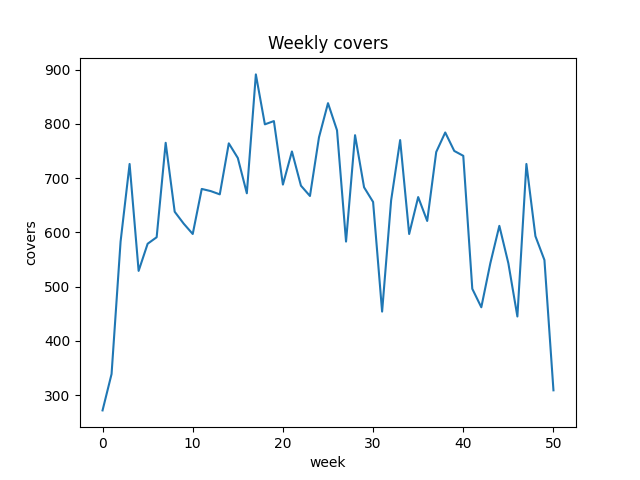
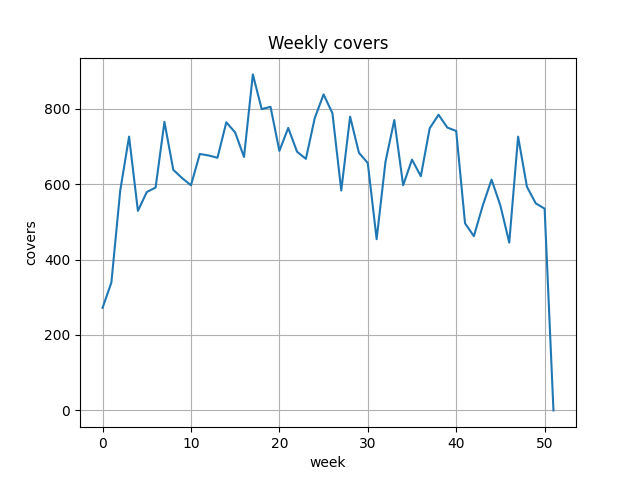
adding graphs and finetuning model

diff --git a/restaurant_analytics/ml.py b/restaurant_analytics/ml.py
@@ -2,15 +2,16 @@ import pandas as pd
 import torch
 import numpy as np
 import os
-from tqdm import tqdm
+# from tqdm import tqdm
 import torch
 import torch.optim as optim
 import torch.nn as nn
-import torch.nn.functional as F
+# import torch.nn.functional as F
 from torch.utils.data import DataLoader, TensorDataset
-from torchvision import transforms
-from torchvision.utils import save_image
+# from torchvision import transforms
+# from torchvision.utils import save_image
 import matplotlib.pyplot as plt
+from datetime import datetime
 
 
 
@@ -23,6 +24,8 @@ pred_file_name = cd + "\\predictions.xlsx"
 pred_file = os.path.join(cd, pred_file_name)
 
 device = torch.device('cuda' if torch.cuda.is_available() else 'cpu')
+date = None
+year = "2025"
 
 class NN_model(nn.Module):
     ''' a simple neural net to train and test data on '''
@@ -31,16 +34,19 @@ class NN_model(nn.Module):
         a = 256
         b = 64
         c = 16
+        d= 4
         self.hidden1 = nn.Linear(input_dim,a)
         self.hidden2 = nn.Linear(a,b)
         self.hidden3 = nn.Linear(b,c)
-        self.out = nn.Linear(c,output_dim)
+        self.hidden4 = nn.Linear(c,d)
+        self.out = nn.Linear(d,output_dim)
         self.relu = nn.ReLU()
 
     def forward(self, x):
         x = self.relu(self.hidden1(x))
         x = self.relu(self.hidden2(x))
         x = self.relu(self.hidden3(x))
+        x = self.relu(self.hidden4(x))
         x = self.out(x)
 
         return x
@@ -49,15 +55,19 @@ class NN_model(nn.Module):
 def convert_data(size=16):
     '''reading data from the file'''
     df = pd.read_excel(fp,usecols="A,C:H")
-    n = int(len(df) * 0.95)
+    percentage = 0.90               # % of data to use as training
+    n = int(len(df) * percentage)
+    a = 357                         # total amount of values to look at
 
     x = df.drop(columns="count")    # taking all but the target as inputs
     x['date'] = x["date"].dt.day_of_year    # converting dates to day of the year
+    global date
+    date = x["date"][a]
+
     for column in x.columns: 
         x[column] = x[column]  / x[column].abs().max() 
     y = df["count"]         # target values
     # y = np.array(y/y.max(), dtype=np.float32)    #normalizing target values
-    a = 355
     # splitting data to train on bottom 85% and test the rest
     x_train, x_test = x.iloc[:n], x.iloc[n:a]
     y_train, y_test = y[:n], y[n:a]
@@ -78,7 +88,7 @@ def convert_data(size=16):
     test_loader = DataLoader(test_data, batch_size=size, shuffle=False)
     pred_loader = DataLoader(pred_data, batch_size=size, shuffle=False)
 
-    print("successfully converted data to tensor")
+    print("successfully converted data to tensor\n")
     return train_loader, test_loader, pred_loader 
 
 
@@ -108,7 +118,7 @@ def train(model,optimizer, loss_fn, train_loader, epochs=100, scheduler=None):
     '''time to train the model on the data'''
     model.to(device)
 
-    print("now starting to analyze data using simple model with Adam")
+    print("Analyzing data with the model:")
     # simple set up of variables
     num_epochs = epochs
     losses = []
@@ -135,13 +145,14 @@ def train(model,optimizer, loss_fn, train_loader, epochs=100, scheduler=None):
             scheduler.step()
     print(f'Epoch {epoch+1}/{num_epochs}, Loss: {running_loss / len(train_loader)}')
     # print(f"{data}\n{target}")
-
+    print(f"average loss on training: {np.average(losses)}\n")
     torch.save(model.state_dict(), "\\weights.pth")
     return losses
 
 
 def test(model, loss_fn, test_loader):
     '''time to evaluate the model on unseen data'''
+    print("Testing the model on unseen data")
     model.eval()
     # predefine some variables for testing
     samples = 0
@@ -186,7 +197,9 @@ def predict(model, pred_loader):
             predicted = model(data)
             for i in range(len(predicted)):
                 p = int(predicted[i])
-                print(f"{p}")
+                day = str(date+i)
+                res = datetime.strptime(year + "-" + day, "%Y-%j").strftime("%m/%d/%Y")
+                print(f"{res}: {p}")
             # compute loss
 
 

diff --git a/restaurant_analytics/render.py b/restaurant_analytics/render.py
@@ -6,7 +6,7 @@ import json
 import matplotlib.pyplot as plt
 
 cd = os.path.dirname(os.path.abspath(__file__))
-file_name = cd+"\\data.xlsx"
+file_name = cd+"\\covers_data.xlsx"
 fp = os.path.join(cd, file_name)
 
 
@@ -49,7 +49,7 @@ def days_of_week():
 	"""dict of array for a given day of the week(i.e. 'Sunday:[1st sunday, 2nd, ..]')"""
 	df = pd.read_excel(fp, usecols="A,D",)
 	l = len(df["count"])
-	ret = {"Friday":[], "Saturday":[], "Sunday":[], "Monday":[], "Tuesday":[], "Wednesday":[], "Thursday":[]}
+	ret = {"Sunday":[], "Monday":[], "Tuesday":[], "Wednesday":[], "Thursday":[], "Friday":[], "Saturday":[]}
 	for i in range(l):
 		ret[df["day"][i]].append(df["count"][i])
 
@@ -75,13 +75,14 @@ def main():
 	# print("weekly data")
 	# for i in range(len(d)):
 	# 	print("week {}: {}".format(i, d[i]))
-	img_pth = os.path.join(cd,"images/weekly_covers.png")
-	plt.plot(d, label="weekly covers")
-	plt.xlabel("week")
-	plt.ylabel("covers")
-	plt.title("Weekly covers")
-	plt.savefig(img_pth)
-	plt.show()
+	# img_pth = os.path.join(cd,"images/weekly_covers.png")
+	# plt.plot(d, label="weekly covers")
+	# plt.xlabel("week")
+	# plt.ylabel("covers")
+	# plt.title("Weekly covers")
+	# plt.grid(True)
+	# plt.savefig(img_pth)
+	# plt.show()
 
 
 	A = {}
@@ -92,6 +93,15 @@ def main():
 		out = np.sum(val)/len(val)
 		A[key] = out
 		# print("{}: {:.2f}".format(key,out) )
+	img_pth = os.path.join(cd,"images/daily_average.png")
+	fig, ax = plt.subplots()
+	plt.bar(range(len(A)), list(A.values()), align='center')
+	plt.xticks(range(len(A)), list(A.keys()), rotation=45)
+	plt.grid(True)
+	plt.title("Average covers per Day")
+	plt.savefig(img_pth)
+	plt.show()
+
 
 	# print("\ndata per given month")
 	B = {}
@@ -105,6 +115,14 @@ def main():
 		else:
 			B[key] = val/31 
 		# print("{}: {:.2f}".format(key,B[key]))
+	# img_pth = os.path.join(cd,"images/monthly_average.png")
+	# fig, ax = plt.subplots()
+	# plt.bar(range(len(B)), list(B.values()), align='center')
+	# plt.xticks(range(len(B)), list(B.keys()), rotation=45)
+	# plt.grid(True)
+	# plt.title("Monthly average covers")
+	# plt.savefig(img_pth)
+	# plt.show()
 		
 
 	# print("\njoint data for given month and day")

diff --git a/restaurant_analytics/extra_data.py b/restaurant_analytics/extra_data.py
@@ -84,7 +84,7 @@ def main():
     start = datetime(2025, 3, 10)
     end = datetime(2025,4, 1)
     df = get_weather(start, end)
-    print(df["tavg"][-1])
+    print(df)
 
 if __name__ == "__main__":
 	main()
